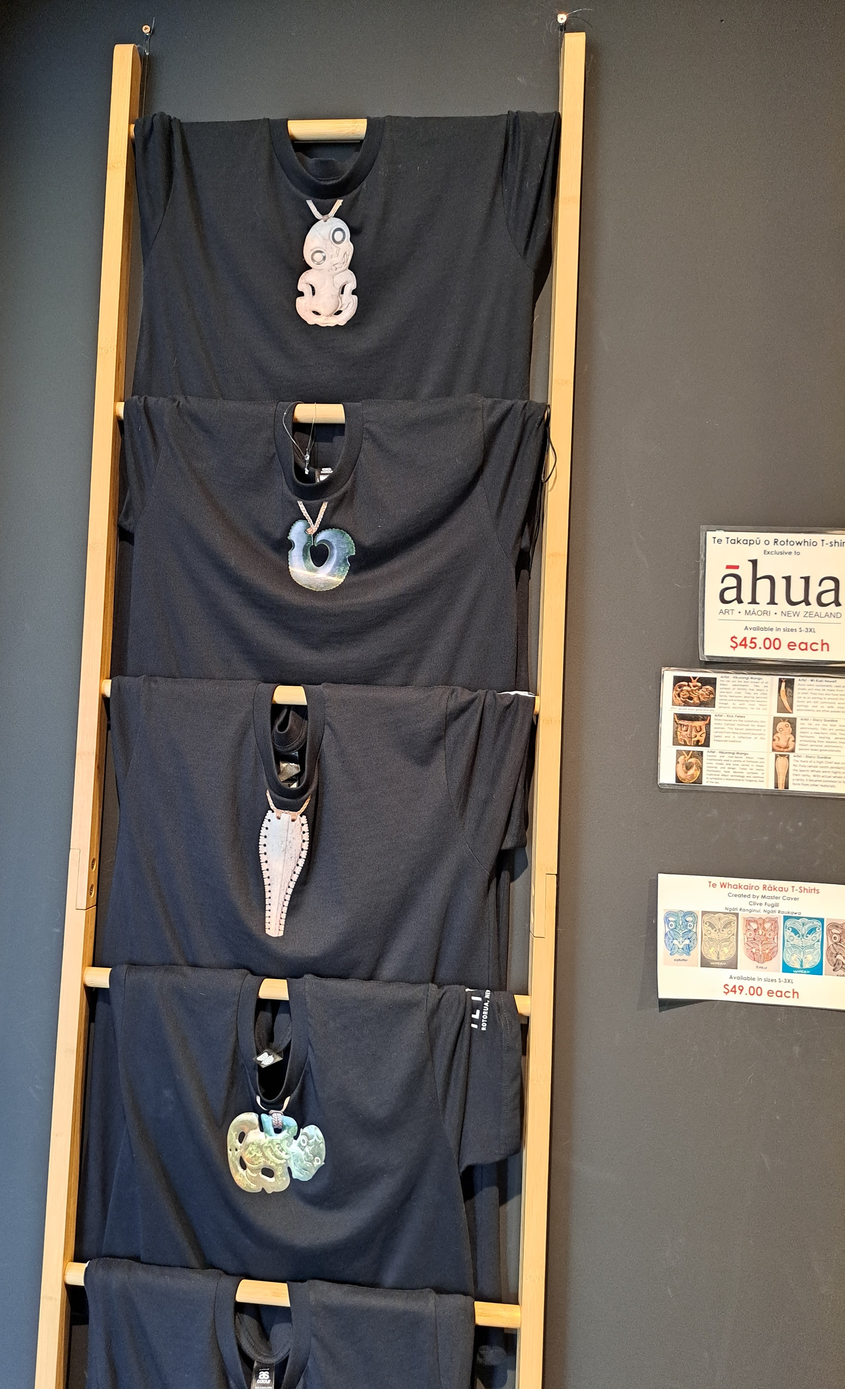
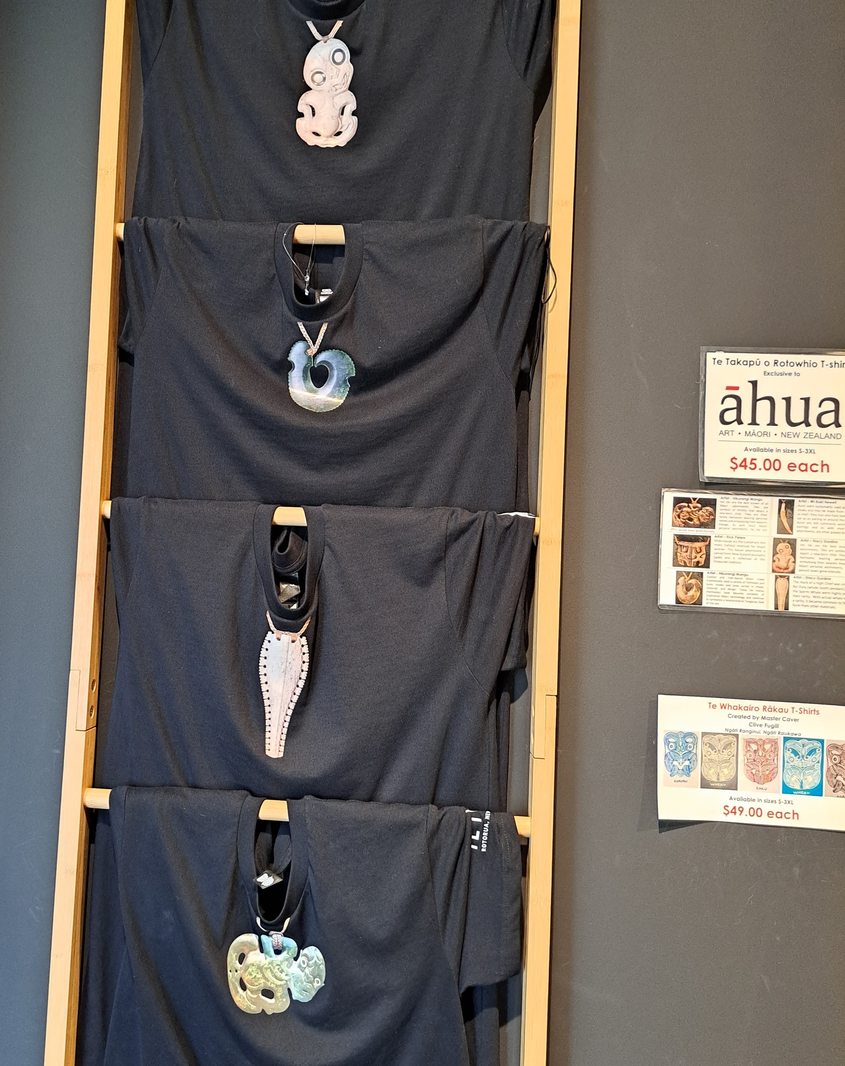
First home page attempt done

diff --git a/Maori Schools.html b/Maori Schools.html
@@ -1,0 +1,55 @@
+<!DOCTYPE html>
+<html lang="en">
+<head>
+    <meta charset="UTF-8">
+    <meta name="viewport" content="width=device-width, initial-scale=1.0">
+    <link rel="Stylesheet" href="style.css">
+    <title>Te Puia</title>
+    <style>
+        @import url('https://fonts.googleapis.com/css2?family=Archivo+Black&display=swap');
+    </style>
+    <script src="https://kit.fontawesome.com/191b0c7275.js" crossorigin="anonymous"></script>
+</head>
+
+
+<body>
+    <header>
+        <section class="topbar">
+            <img class="logo" src="Te Puia Resources/tepuialogotransparent.png" alt="Te Puia's Logo">
+            <nav>
+                <a class="nav-links" href="index.html">Home</a>
+                <a class="nav-links" href="Geothermal Attractions.html">Geothermal Attractions</a>
+                <a class="nav-links" href="Maori Schools.html">Maori Schools</a>
+                <a class="nav-links" href="Shop and History.html">Shop and History</a>
+            </nav>
+        </section>    
+
+        <section class="hero-image">
+            <h1 class="hero-text">Te Puia</h1>
+        </section>
+
+    </header>
+
+    <main>
+    </main>
+    
+    <footer class="footer">
+        <img class="logo top" src="Te Puia Resources/tepuialogotransparent.png" alt="Te Puia's Logo">
+        <p class="footer">Find us online at <em>tepuia.co.nz</em></p>
+        <p>Te Puia | Ph: 0230 623 1120 | Email: bookings@tepuia.org.nz</p>
+        <p>Address: Hemo Road, Tihiotonga, Rotorua 3040</p>
+        <p class="footer">Or check us out on
+        <a class="socials" href="#"><i class="fa-brands fa-twitter"></i></a>
+        <a class="socials" href="#"><i class="fa-brands fa-facebook"></i></a>
+        <a class="socials" href="#"><i class="fa-brands fa-tiktok"></i></a>
+        <a class="socials" href="#"><i class="fa-brands fa-youtube"></i></a>
+        </p>
+        <p><small>
+            &copy; Te Puia 2026 | Website
+            by Super Awesome Web Ben
+        </small></p>
+    </footer>
+
+
+</body>
+</html>

diff --git a/Shop and History.html b/Shop and History.html
@@ -1,0 +1,55 @@
+<!DOCTYPE html>
+<html lang="en">
+<head>
+    <meta charset="UTF-8">
+    <meta name="viewport" content="width=device-width, initial-scale=1.0">
+    <link rel="Stylesheet" href="style.css">
+    <title>Te Puia</title>
+    <style>
+        @import url('https://fonts.googleapis.com/css2?family=Archivo+Black&display=swap');
+    </style>
+    <script src="https://kit.fontawesome.com/191b0c7275.js" crossorigin="anonymous"></script>
+</head>
+
+
+<body>
+    <header>
+        <section class="topbar">
+            <img class="logo" src="Te Puia Resources/tepuialogotransparent.png" alt="Te Puia's Logo">
+            <nav>
+                <a class="nav-links" href="index.html">Home</a>
+                <a class="nav-links" href="Geothermal Attractions.html">Geothermal Attractions</a>
+                <a class="nav-links" href="Maori Schools.html">Maori Schools</a>
+                <a class="nav-links" href="Shop and History.html">Shop and History</a>
+            </nav>
+        </section>    
+
+        <section class="hero-image">
+            <h1 class="hero-text">Te Puia</h1>
+        </section>
+
+    </header>
+
+    <main>
+    </main>
+    
+    <footer class="footer">
+        <img class="logo top" src="Te Puia Resources/tepuialogotransparent.png" alt="Te Puia's Logo">
+        <p class="footer">Find us online at <em>tepuia.co.nz</em></p>
+        <p>Te Puia | Ph: 0230 623 1120 | Email: bookings@tepuia.org.nz</p>
+        <p>Address: Hemo Road, Tihiotonga, Rotorua 3040</p>
+        <p class="footer">Or check us out on
+        <a class="socials" href="#"><i class="fa-brands fa-twitter"></i></a>
+        <a class="socials" href="#"><i class="fa-brands fa-facebook"></i></a>
+        <a class="socials" href="#"><i class="fa-brands fa-tiktok"></i></a>
+        <a class="socials" href="#"><i class="fa-brands fa-youtube"></i></a>
+        </p>
+        <p><small>
+            &copy; Te Puia 2026 | Website
+            by Super Awesome Web Ben
+        </small></p>
+    </footer>
+
+
+</body>
+</html>

diff --git a/Geothermal Attractions.html b/Geothermal Attractions.html
@@ -3,9 +3,53 @@
 <head>
     <meta charset="UTF-8">
     <meta name="viewport" content="width=device-width, initial-scale=1.0">
-    <title>Document</title>
+    <link rel="Stylesheet" href="style.css">
+    <title>Te Puia</title>
+    <style>
+        @import url('https://fonts.googleapis.com/css2?family=Archivo+Black&display=swap');
+    </style>
+    <script src="https://kit.fontawesome.com/191b0c7275.js" crossorigin="anonymous"></script>
 </head>
+
+
 <body>
+    <header>
+        <section class="topbar">
+            <img class="logo" src="Te Puia Resources/tepuialogotransparent.png" alt="Te Puia's Logo">
+            <nav>
+                <a class="nav-links" href="index.html">Home</a>
+                <a class="nav-links" href="Geothermal Attractions.html">Geothermal Attractions</a>
+                <a class="nav-links" href="Maori Schools.html">Maori Schools</a>
+                <a class="nav-links" href="Shop and History.html">Shop and History</a>
+            </nav>
+        </section>    
+
+        <section class="hero-image">
+            <h1 class="hero-text">Te Puia</h1>
+        </section>
+
+    </header>
+
+    <main>
+    </main>
     
+    <footer class="footer">
+        <img class="logo top" src="Te Puia Resources/tepuialogotransparent.png" alt="Te Puia's Logo">
+        <p class="footer">Find us online at <em>tepuia.co.nz</em></p>
+        <p>Te Puia | Ph: 0230 623 1120 | Email: bookings@tepuia.org.nz</p>
+        <p>Address: Hemo Road, Tihiotonga, Rotorua 3040</p>
+        <p class="footer">Or check us out on
+        <a class="socials" href="#"><i class="fa-brands fa-twitter"></i></a>
+        <a class="socials" href="#"><i class="fa-brands fa-facebook"></i></a>
+        <a class="socials" href="#"><i class="fa-brands fa-tiktok"></i></a>
+        <a class="socials" href="#"><i class="fa-brands fa-youtube"></i></a>
+        </p>
+        <p><small>
+            &copy; Te Puia 2026 | Website
+            by Super Awesome Web Ben
+        </small></p>
+    </footer>
+
+
 </body>
 </html>

diff --git a/index.html b/index.html
@@ -48,21 +48,23 @@
             <img src="Te Puia Resources/20240626_100206.jpg" alt="Maori carving statue">
         </section>
 
-        <h2 id="header-two">What We Have To Offer</h2>
+        <section class="three-col-back">
+            <h2 id="header-two">What We Have To Offer</h2>
 
-        <section class="three-column">
-            <div>
-                <img class="thumbnail" src="Te Puia Resources/20240626_104441.jpg" alt="Geothermal forest area">
-                <p>Geothermal Attractions...</p>
-            </div>
-            <div>
-                <img >
-                <p>Explore Maori Culture Classes...</p>
-            </div>
-            <div>
-                <img>
-                <p></p>
-            </div>
+            <section class="three-column">
+                <div>
+                    <img class="thumbnail" src="Te Puia Resources/20240626_104441.jpg" alt="Geothermal forest area">
+                    <a href="Geothermal Attractions.html">Geothermal Attractions...</a>
+                </div>
+                <div>
+                    <img class="thumbnail" src="Te Puia Resources/carving school.jpg" alt="Maori carving student">
+                    <a href="Maori Schools.html">Explore Maori Culture Classes...</a>
+                </div>
+                <div>
+                    <img class="thumbnail" src="Te Puia Resources/20240626_103337.jpg" alt="Te Puia gift shop">
+                    <a href="Shop and History.html">Visit Our Gift Shop...</a>
+                </div>
+            </section>
         </section>
 
 

diff --git a/style.css b/style.css
@@ -28,7 +28,7 @@ nav {
     font-size: 16px;
     display: inline-block;
     padding: 10px;
-    border-radius: 2px;
+    border-radius: 4px;
     margin-left: 0px;
     margin-right: 0px;
 }
@@ -58,7 +58,7 @@ nav {
 
 
 main {
-    margin: 70px 30px;
+    margin: 70px 0px;
 }
 
 h2 {
@@ -112,20 +112,53 @@ p {
 .second div {
     margin-top: 40px;
 }
+
 .book-button {
     width: 80px;
     padding: 10px;
-    background-color: #f0f0f0;
-    color: #9e0000;
+    background-color: #9E0000;
+    color: #F0F0F0;
     margin: 0;
+    border-radius: 4px;
+}
+
+.book-button:hover {
+    background-color: #7E0000;
+    color: #FFFFFF;
+}
+
+.three-col-back {
+    background-color:#F0F0F0;
+    padding-bottom: 20px;
+}
+.three-column {
+    display: grid;
+    grid-template-columns: 1fr 1fr 1fr;
+    gap: 5vw;
+    width: 80vw;
+    margin: 0 auto 80px auto;
+}
+
+.thumbnail {
+    width: 100%;
+    height: 30vw;
+}
+
+.thumbnail a {
+    text-decoration: none;
+
 }
 
 footer {
     background-color: #f0f0f0;
-    border-top: 2px #ff87df;
+    border-top: 2px #12680d solid;
     text-align: center;
     font-family: 'Trebuchet MS', 'Lucida Sans Unicode', 'Lucida Grande', 'Lucida Sans', Arial, sans-serif;
     font-size: 14px;  
+}
+
+footer .logo {
+    margin-top: 10px;
 }
 
 p footer {
